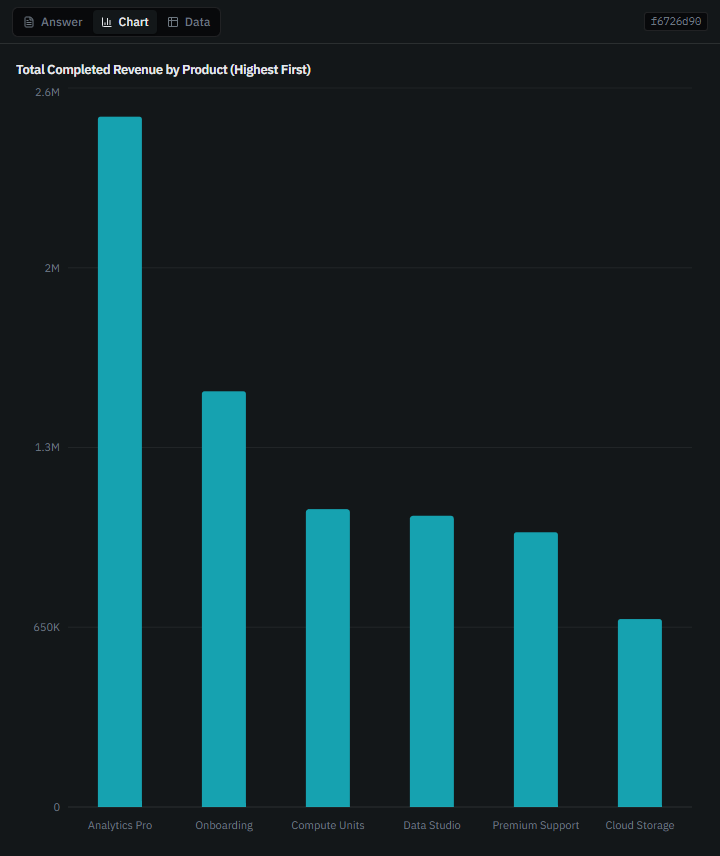
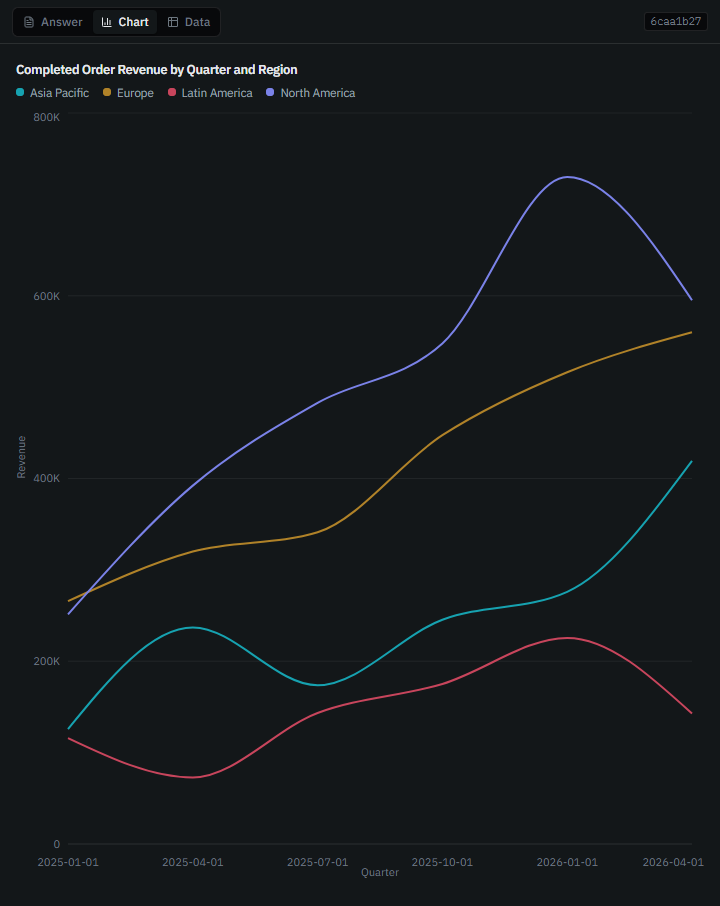
docs: retake the analysis screenshots after the chat and chart fixes
Adds a full analysis view from a live run: the agent corrects a failed
query, draws one line per region, and every figure in its answer traces to a
result set. The chart close-up is now that multi-series line chart. Updates
the test count and records the validator limits found while testing live.

Claude-Session: https://claude.ai/code/session_01AgqrZfiT6zpnLN16n8gYPj

diff --git a/README.md b/README.md
@@ -9,7 +9,7 @@
   <img alt="TypeScript" src="https://img.shields.io/badge/TypeScript-strict-0a0c0e?style=flat-square&logo=typescript&logoColor=3178c6">
   <img alt="DuckDB" src="https://img.shields.io/badge/DuckDB-in--process-0a0c0e?style=flat-square&logo=duckdb&logoColor=fff000">
   <img alt="AI SDK 7" src="https://img.shields.io/badge/AI_SDK-7-0a0c0e?style=flat-square&logo=vercel&logoColor=white">
-  <img alt="367 tests passing" src="https://img.shields.io/badge/tests-367_passing-2dc8d6?style=flat-square&labelColor=0a0c0e&logo=vitest&logoColor=white">
+  <img alt="404 tests passing" src="https://img.shields.io/badge/tests-404_passing-2dc8d6?style=flat-square&labelColor=0a0c0e&logo=vitest&logoColor=white">
   <img alt="Evaluation 26 of 26" src="https://img.shields.io/badge/eval-26%2F26-46c98a?style=flat-square&labelColor=0a0c0e">
 </p>
 
@@ -39,11 +39,15 @@ This project treats that as a defect to be caught, not a risk to be disclaimed. 
 
 ## ◆ See it work
 
+<img alt="Analysis view: the question, a failed query the agent corrected, a quarterly revenue table, and a four-region line chart, with a badge confirming all 15 figures trace to a result set" src="docs/assets/analysis.png" width="100%">
+
+<p align="center"><sub><b>One question, start to finish.</b> The agent's second query fails, it reads DuckDB's error and rewrites it, charts the stored result, and answers — and all 15 figures in the answer trace to a result set.</sub></p>
+
 <table>
   <tr>
     <td width="50%" valign="top">
-      <img alt="Bar chart of completed revenue by product, rendered from a stored result set" src="docs/assets/chart.png">
-      <p><b>Charts can't invent data.</b> The model only names columns. Rows are loaded from the stored result set, and the spec is rejected if it references a column that result doesn't have.</p>
+      <img alt="Line chart of completed revenue by quarter with one line per region, rendered from a stored result set" src="docs/assets/chart.png">
+      <p><b>Charts can't invent data.</b> The model only names columns — here, one line per <code>region</code>. Rows are loaded from the stored result set, and the spec is rejected if it references a column that result doesn't have.</p>
     </td>
     <td width="50%" valign="top">
       <img alt="Agent step timeline: a query fails with a DuckDB binder error, the agent reads the error and retries successfully" src="docs/assets/self-correction.png">
@@ -225,7 +229,7 @@ Written down rather than discovered:
 - **Results:** a query stores at most 1,000 rows and times out after 15 seconds; the model reads at most 50 rows of any result.
 - **Agent:** up to 12 steps per question.
 - **Free models are rate limited** (roughly 20 requests a minute plus a daily cap). A 429 becomes a message saying how long to wait.
-- **The validator** doesn't read spelled-out quantities (*"two orders"*) or magnitude words (*"1.2 million"*).
+- **The validator checks figures, not wording.** It doesn't read spelled-out quantities (*"two orders"*) or magnitude words (*"1.2 million"*), and it won't notice a period named wrongly in prose. A decline written as a positive figure (*"fell 12%"* for −12%) is flagged, and so is a comparison that uses a synonym for a queried column (*"percentage increase"* for `pct_growth`).
 
 ## ◆ Roadmap
 
